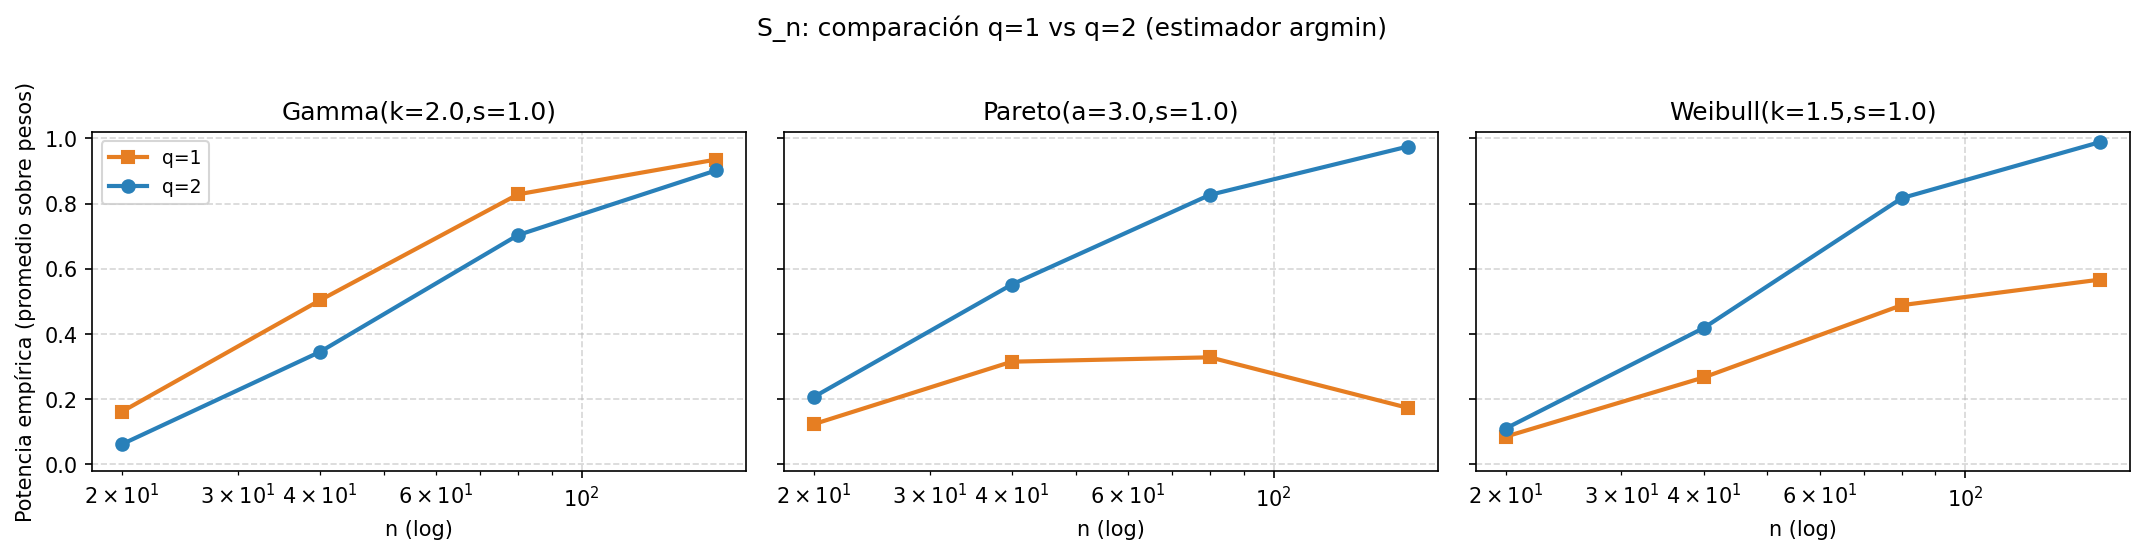
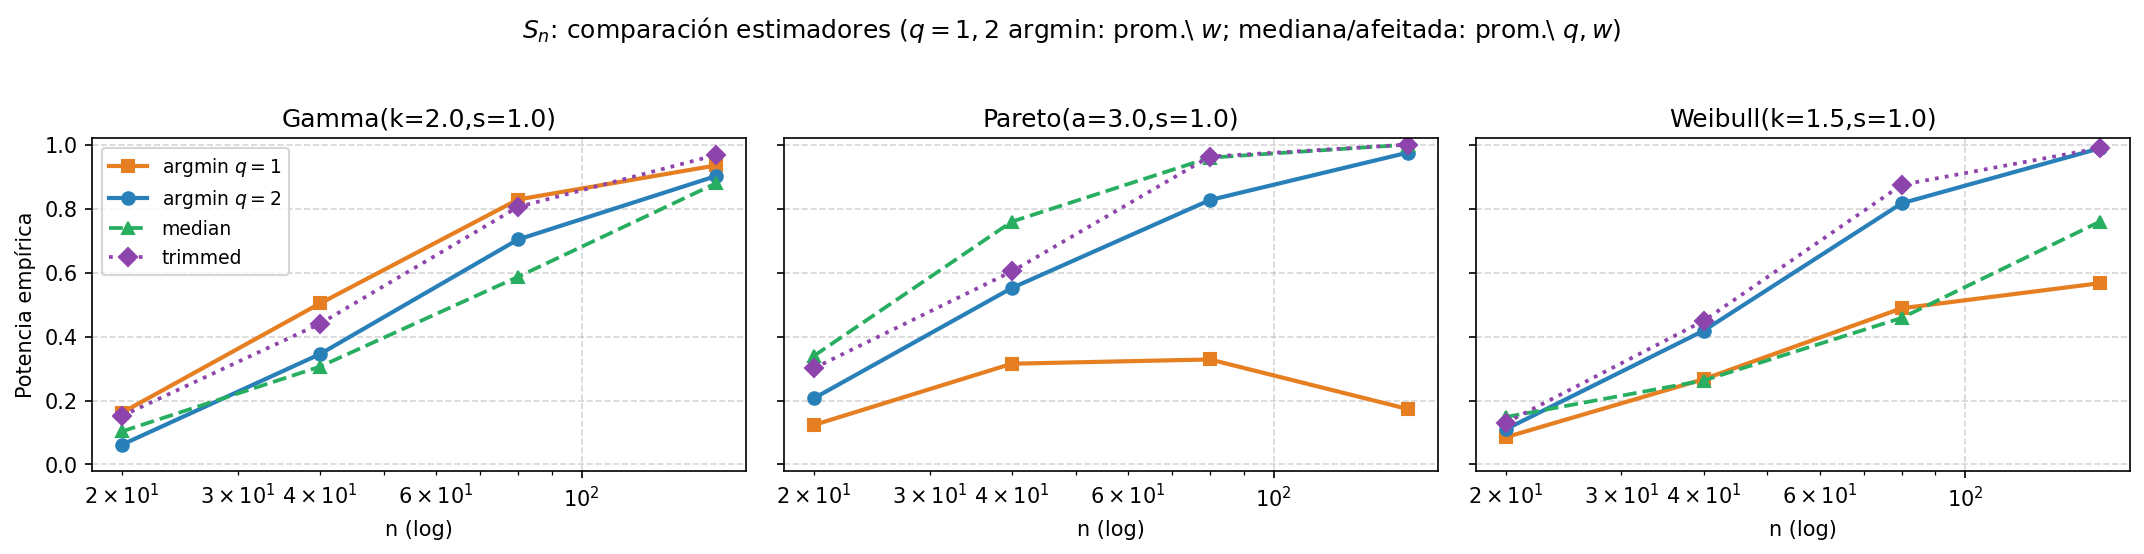
fix: separar q=1 y q=2 argmin en figuras y aclarar implementación grid (q=1)
- plotting_sn: plot_q1_vs_q2 ahora muestra 4 curvas (argmin q=1, argmin q=2,
  median, trimmed); plot_tn_vs_sn_power muestra S_n q=1 y q=2 por separado
  (prom. sobre w) en lugar de "mejor (q,w)"; plot_runtime_sn separa argmin
  q=1 (grid) de argmin q=2 (secante)
- implementacion.tex: corrige párrafo que decía que argmin siempre usa
  secante batcheada; aclara grid para q=1 en bootstrap
- resultados.tex: actualiza caption fig. 11 y 12, números del párrafo de
  efecto de q, timing de S_n argmin q=1 (0.83–1.31 s, grid), y párrafo
  final de costo
- discusion.tex: descomenta y corrige la descripción del par (q=1, argmin)

diff --git a/src/plotting_sn.py b/src/plotting_sn.py
@@ -233,24 +233,35 @@ def plot_power_heatmap(summary: pd.DataFrame, outdir: Path) -> Path | None:
 
 
 # ---------------------------------------------------------------------------
-# Comparativas: q=1 vs q=2
+# Comparativas: q=1 vs q=2, todos los estimadores
 # ---------------------------------------------------------------------------
 def plot_q1_vs_q2(summary: pd.DataFrame, outdir: Path) -> Path | None:
-    """Compara potencia entre q=1 y q=2 (argmin, promediado sobre pesos)."""
+    """Compara potencia: argmin q=1/q=2 (prom. sobre w) + median/trimmed (prom. sobre q,w)."""
     ha = summary[~summary["under_h0"]].copy()
     if ha.empty or ha["q"].nunique() < 2:
         return None
-    sub = ha[ha["estimator"] == "argmin"].copy()
-    if sub.empty:
-        sub = ha.copy()
-    g = sub.groupby(["dist", "n", "q"], as_index=False).agg(
-        reject_rate=("reject_rate", "mean"),
-    )
-    # Paleta distinguible para q=1 y q=2
-    q_colors = {1: "#E67E22", 2: "#2980B9"}   # naranja / azul
-    q_markers = {1: "s", 2: "o"}
 
-    dists = sorted(g["dist"].unique())
+    # argmin: promedio sobre pesos, separado por q
+    g_argmin = (
+        ha[ha["estimator"] == "argmin"]
+        .groupby(["dist", "n", "q"], as_index=False)
+        .agg(reject_rate=("reject_rate", "mean"))
+    )
+    # median y trimmed: promedio sobre q y w
+    g_robust = (
+        ha[ha["estimator"].isin(["median", "trimmed"])]
+        .groupby(["dist", "n", "estimator"], as_index=False)
+        .agg(reject_rate=("reject_rate", "mean"))
+    )
+
+    q_colors = {1: "#E67E22", 2: "#2980B9"}
+    q_markers = {1: "s", 2: "o"}
+    robust_styles = {
+        "median":  {"color": "#27AE60", "marker": "^", "linestyle": "--"},
+        "trimmed": {"color": "#8E44AD", "marker": "D", "linestyle": ":"},
+    }
+
+    dists = sorted(ha["dist"].unique())
     n_cols = min(3, len(dists))
     n_rows = int(np.ceil(len(dists) / n_cols))
     fig, axes = plt.subplots(
@@ -259,8 +270,8 @@ def plot_q1_vs_q2(summary: pd.DataFrame, outdir: Path) -> Path | None:
     )
     axes_flat = axes.flatten()
     for ax, d in zip(axes_flat, dists):
-        for q in sorted(g["q"].unique()):
-            s2 = g[(g["dist"] == d) & (g["q"] == q)].sort_values("n")
+        for q in sorted(g_argmin["q"].unique()):
+            s2 = g_argmin[(g_argmin["dist"] == d) & (g_argmin["q"] == q)].sort_values("n")
             if s2.empty:
                 continue
             ax.plot(
@@ -268,7 +279,19 @@ def plot_q1_vs_q2(summary: pd.DataFrame, outdir: Path) -> Path | None:
                 marker=q_markers.get(q, "o"),
                 color=q_colors.get(q, None),
                 linewidth=2,
-                label=f"q={q}",
+                label=f"argmin $q={q}$",
+            )
+        for est, sty in robust_styles.items():
+            s2 = g_robust[(g_robust["dist"] == d) & (g_robust["estimator"] == est)].sort_values("n")
+            if s2.empty:
+                continue
+            ax.plot(
+                s2["n"], s2["reject_rate"],
+                marker=sty["marker"],
+                color=sty["color"],
+                linestyle=sty["linestyle"],
+                linewidth=1.8,
+                label=est,
             )
         ax.set_xscale("log")
         ax.set_xlabel("n (log)")
@@ -277,9 +300,12 @@ def plot_q1_vs_q2(summary: pd.DataFrame, outdir: Path) -> Path | None:
         ax.grid(True, linestyle="--", alpha=0.5)
     for ax in axes_flat[len(dists):]:
         ax.set_visible(False)
-    axes[0, 0].set_ylabel("Potencia empírica (promedio sobre pesos)")
+    axes[0, 0].set_ylabel("Potencia empírica")
     axes_flat[0].legend(loc="best", fontsize=9)
-    fig.suptitle("S_n: comparación q=1 vs q=2 (estimador argmin)", y=1.02)
+    fig.suptitle(
+        r"$S_n$: comparación estimadores ($q=1,2$ argmin: prom.\ $w$; mediana/afeitada: prom.\ $q,w$)",
+        y=1.02,
+    )
     fig.tight_layout()
     out = outdir / "sn_compare_q.png"
     fig.savefig(out, dpi=150, bbox_inches="tight")
@@ -336,20 +362,40 @@ def plot_weights_compare(summary: pd.DataFrame, outdir: Path) -> Path | None:
 # Runtime
 # ---------------------------------------------------------------------------
 def plot_runtime_sn(summary: pd.DataFrame, outdir: Path) -> Path:
-    """Tiempo medio por test vs n, una curva por estimador."""
+    """Tiempo medio por test vs n: argmin q=1/q=2 separados; median/trimmed promediados."""
     df = summary.copy()
-    g = df.groupby(["n", "estimator"], as_index=False).agg(
-        mean_time_s=("mean_time_s", "mean"),
+
+    # argmin: separado por q, promedio sobre dists y w
+    argmin_g = (
+        df[df["estimator"] == "argmin"]
+        .groupby(["n", "q"], as_index=False)
+        .agg(mean_time_s=("mean_time_s", "mean"))
     )
+    # median y trimmed: promedio sobre q y w (casi idéntico para ambos q)
+    robust_g = (
+        df[df["estimator"].isin(["median", "trimmed"])]
+        .groupby(["n", "estimator"], as_index=False)
+        .agg(mean_time_s=("mean_time_s", "mean"))
+    )
+
+    q_colors = {1: "#E67E22", 2: "#2980B9"}
+    robust_colors = {"median": "#27AE60", "trimmed": "#8E44AD"}
+    robust_markers = {"median": "^", "trimmed": "D"}
+
     fig, ax = plt.subplots(figsize=(6.4, 4.2))
-    for est in sorted(g["estimator"].unique()):
-        s2 = g[g["estimator"] == est].sort_values("n")
-        ax.plot(s2["n"], s2["mean_time_s"], marker="o", linewidth=2, label=est)
+    for q in sorted(argmin_g["q"].unique()):
+        s2 = argmin_g[argmin_g["q"] == q].sort_values("n")
+        ax.plot(s2["n"], s2["mean_time_s"], marker="o", linewidth=2,
+                color=q_colors.get(q), label=f"argmin $q={q}$")
+    for est in sorted(robust_g["estimator"].unique()):
+        s2 = robust_g[robust_g["estimator"] == est].sort_values("n")
+        ax.plot(s2["n"], s2["mean_time_s"], marker=robust_markers[est],
+                linestyle="--", linewidth=1.8, color=robust_colors[est], label=est)
     ax.set_xscale("log")
     ax.set_yscale("log")
     ax.set_xlabel("n (log)")
     ax.set_ylabel("Tiempo medio por test [s] (log)")
-    ax.set_title("Costo computacional del test S_n (promedio sobre q, w)")
+    ax.set_title(r"Costo computacional del test $S_n$ (argmin: prom.\ $w$; otros: prom.\ $q,w$)")
     ax.grid(True, which="both", linestyle="--", alpha=0.5)
     ax.legend()
     fig.tight_layout()
@@ -409,23 +455,26 @@ def plot_tn_vs_sn_power(
     summary_sn: pd.DataFrame,
     outdir: Path,
 ) -> Path | None:
-    """Potencia T_n vs mejor configuración de S_n, por distribución."""
+    """Potencia T_n (argmin) vs S_n argmin q=1 y q=2 (cada uno promediado sobre w)."""
     ha_tn = summary_tn[~summary_tn["under_h0"]].copy()
     ha_sn = summary_sn[~summary_sn["under_h0"]].copy()
     if ha_tn.empty or ha_sn.empty:
         return None
     tn = ha_tn[ha_tn["estimator"] == "argmin"].copy()
-    sn = ha_sn[ha_sn["estimator"] == "argmin"].copy()
-    if tn.empty or sn.empty:
+    sn_argmin = ha_sn[ha_sn["estimator"] == "argmin"].copy()
+    if tn.empty or sn_argmin.empty:
         return None
 
-    sn_best_qw = (
-        sn.groupby(["dist", "q", "weight"], as_index=False)["reject_rate"]
-          .mean()
-          .sort_values("reject_rate", ascending=False)
-          .drop_duplicates("dist")
+    # S_n argmin: promedio sobre w, separado por q
+    sn_g = sn_argmin.groupby(["dist", "n", "q"], as_index=False).agg(
+        reject_rate=("reject_rate", "mean"),
+        se_rate=("se_rate", "mean"),
     )
-    dists = sorted(set(tn["dist"]).intersection(sn["dist"]))
+
+    q_colors = {1: "#E67E22", 2: "#2980B9"}
+    q_markers = {1: "s", 2: "^"}
+
+    dists = sorted(set(tn["dist"]).intersection(sn_argmin["dist"]))
     n_cols = min(3, len(dists))
     n_rows = int(np.ceil(len(dists) / n_cols))
     fig, axes = plt.subplots(
@@ -438,16 +487,15 @@ def plot_tn_vs_sn_power(
         if not s_tn.empty:
             ax.errorbar(s_tn["n"], s_tn["reject_rate"], yerr=2 * s_tn["se_rate"],
                         marker="o", capsize=3, linewidth=2,
-                        label="T_n (argmin)", color="C0")
-        best_row = sn_best_qw[sn_best_qw["dist"] == d]
-        if not best_row.empty:
-            bq = int(best_row.iloc[0]["q"])
-            bw = best_row.iloc[0]["weight"]
-            s_sn = sn[(sn["dist"] == d) & (sn["q"] == bq) & (sn["weight"] == bw)
-                      ].sort_values("n")
+                        label=r"$T_n$ (argmin)", color="C0")
+        for q in [1, 2]:
+            s_sn = sn_g[(sn_g["dist"] == d) & (sn_g["q"] == q)].sort_values("n")
+            if s_sn.empty:
+                continue
             ax.errorbar(s_sn["n"], s_sn["reject_rate"], yerr=2 * s_sn["se_rate"],
-                        marker="s", capsize=3, linewidth=2,
-                        label=f"S_n best (q={bq}, {bw})", color="C1")
+                        marker=q_markers[q], capsize=3, linewidth=2,
+                        color=q_colors[q],
+                        label=rf"$S_n$ argmin $q={q}$ (prom. $w$)")
         ax.set_xscale("log")
         ax.set_xlabel("n (log)")
         ax.set_title(d)
@@ -457,7 +505,7 @@ def plot_tn_vs_sn_power(
         ax.set_visible(False)
     axes[0, 0].set_ylabel("Potencia empírica")
     axes_flat[0].legend(loc="best", fontsize=8)
-    fig.suptitle("Comparación T_n vs S_n (mejor (q, w))", y=1.02)
+    fig.suptitle(r"Comparación $T_n$ vs $S_n$ (argmin, $q=1$ y $q=2$, prom.\ $w$)", y=1.02)
     fig.tight_layout()
     out = outdir / "compare_tn_vs_sn_power.png"
     fig.savefig(out, dpi=150, bbox_inches="tight")

diff --git a/documento/4 - resultados.tex b/documento/4 - resultados.tex
@@ -72,7 +72,7 @@ Los patrones de potencia de $T_n$ muestran que el estimador argmin, es el más p
 \begin{figure}[H]
   \centering
   \includegraphics[width=0.92\textwidth]{../results/figures/sn_compare_q.png}
-  \caption{Comparación de potencia de $S_n$ con $q=1$ vs.\ $q=2$ (estimador argmin, promediado sobre las tres funciones de peso).}
+  \caption{Comparación de potencia de $S_n$: argmin $q=1$ y $q=2$ (cada uno promediado sobre las tres funciones de peso); mediana y media afeitada (promediados sobre $q$ y $w$).}
   \label{fig:sn-q}
 \end{figure}
 
@@ -83,7 +83,7 @@ Los patrones de potencia de $T_n$ muestran que el estimador argmin, es el más p
   \label{fig:sn-pesos}
 \end{figure}
 
-\paragraph{Efecto de $q$.} La Figura~\ref{fig:sn-q} muestra la comparación $q=1$ vs.\ $q=2$ con el estimador argmin (promediado sobre los tres pesos). $q=2$ domina bajo Pareto ($49\%$ vs.\ $30.5\%$ en $n=40$) y Weibull ($87\%$ vs.\ $64\%$ en $n=80$); $q=1$ es competitivo únicamente bajo Gamma ($54\%$ vs.\ $31\%$ en $n=40$, $90.5\%$ vs.\ $82\%$ en $n=80$). Para la \textbf{media afeitada} (no mostrada), $q=1$ tiene ventaja consistente bajo Gamma ($93\%$ vs.\ $74\%$ en $n=80$) y Weibull ($91\%$ vs.\ $88.5\%$ en $n=80$). En conjunto, $q=2$ es preferible cuando se usa argmin, mientras que $q=1$ puede competir con estimadores robustos del centro.
+\paragraph{Efecto de $q$.} La Figura~\ref{fig:sn-q} compara los cuatro estimadores: argmin $q=1$ y $q=2$ (cada uno promediado sobre los tres pesos), junto con mediana y media afeitada (promediados sobre $q$ y $w$). Para el \textbf{argmin}: $q=2$ domina bajo Pareto ($55\%$ vs.\ $32\%$ en $n=40$) y Weibull ($82\%$ vs.\ $49\%$ en $n=80$); $q=1$ es competitivo únicamente bajo Gamma ($50\%$ vs.\ $35\%$ en $n=40$, $83\%$ vs.\ $70\%$ en $n=80$). Para la \textbf{media afeitada}, $q=1$ tiene ventaja consistente bajo Gamma ($91\%$ vs.\ $70\%$ en $n=80$) y Weibull ($92\%$ vs.\ $83\%$ en $n=80$). En conjunto, $q=2$ es preferible cuando se usa argmin, mientras que $q=1$ puede competir con estimadores robustos del centro.
 
 \paragraph{Efecto de $w$.} La Figura~\ref{fig:sn-pesos} muestra que la elección de la función de peso tiene un impacto moderado. Las tres funciones $w_1$, $w_2$ y $w_3$ producen potencias similares en la mayoría de los escenarios. $w_2=\mathcal{N}(0,0.25)$ (más concentrada en bajas frecuencias) tiende a ser ligeramente inferior bajo Gamma y Weibull, sugeriendo que las señales de asimetría se ubican en frecuencias medias que $w_2$ pondera menos. $w_3$ (Laplace, colas pesadas) presenta comportamiento similar a $w_1$.
 
@@ -92,13 +92,13 @@ Los patrones de potencia de $T_n$ muestran que el estimador argmin, es el más p
 \begin{figure}[H]
   \centering
   \includegraphics[width=0.92\textwidth]{../results/figures/compare_tn_vs_sn_power.png}
-  \caption{Comparación de potencia entre $T_n$ y $S_n$ (mejores configuraciones de cada test) bajo $H_a$.}
+  \caption{Comparación de potencia entre $T_n$ (argmin) y $S_n$ (argmin $q=1$ y $q=2$, cada uno promediado sobre $w$) bajo $H_a$.}
   \label{fig:compare-potencia}
 \end{figure}
 
-La Figura~\ref{fig:compare-potencia} confronta las mejores configuraciones de cada test, ambas con estimador argmin: $T_n$ con Schuster-Narvarte, $S_n$ con $q=2$ y $w_1=\mathcal{N}(0,1)$ resuelto por L-BFGS-B. $S_n$ supera a $T_n$ en Gamma y Weibull para tamaños intermedios: la potencia de $S_n$ a $n=40$ bajo Gamma es $31\%$ frente al $25.7\%$ de $T_n$, y bajo Weibull a $n=80$ alcanza $87\%$ frente al $40.3\%$ de $T_n$. Para Pareto, $T_n$ alcanza $98.3\%$ a $n=80$ y $100\%$ a $n=160$; $S_n$ alcanza $92.5\%$ y $100\%$ respectivamente. 
+La Figura~\ref{fig:compare-potencia} compara $T_n$ (argmin, Schuster-Narvarte) con $S_n$ (argmin $q=1$ y $q=2$, ambos promediados sobre los tres pesos $w$). Bajo Gamma, $S_n$ con $q=1$ supera a $T_n$ en todos los tamaños: $50\%$ vs.\ $25.7\%$ en $n=40$ y $83\%$ vs.\ $59\%$ en $n=80$. Bajo Weibull, $S_n$ con $q=2$ es claramente superior a $T_n$: $82\%$ vs.\ $40\%$ en $n=80$. Para Pareto, $T_n$ domina: $98.3\%$ a $n=80$ frente al $82.7\%$ de $S_n$ con $q=2$.
 
-El poder de $S_n$ se explica porque la función característica captura la asimetría global , mientras que $T_n$ solo compara la cdf empírica con su simetrización, siendo más sensible a la moda de la distribución que a las colas.
+El poder de $S_n$ se explica porque la función característica captura la asimetría global, mientras que $T_n$ solo compara la cdf empírica con su simetrización, siendo más sensible a la moda de la distribución que a las colas.
 
 %--------------------------------------------------------------------------
 \subsection{Costo computacional}\label{sec:costo}
@@ -122,7 +122,7 @@ Los costos computacionales observados confirman el análisis teórico de la Secc
 \begin{itemize}
   \item Para $T_n$, la \textbf{mediana} es el estimador más rápido pues su cálculo es $\mathcal{O}(n\log n)$. La \textbf{media afeitada} cuesta $\approx 91$--$99$\,ms (overhead de \texttt{scipy.stats.trim\_mean}), prácticamente constante en $n$. El \textbf{argmin} (Schuster-Narvarte) es moderadamente más lento: $37$\,ms en $n=20$ a $80$\,ms en $n=160$, un factor~$2.2\times$ respecto a $n=20$ y solo $2.6\times$ más lento que la mediana en el peor caso. Esta escalabilidad favorable se debe a que el número de iteraciones $L$ crece como $\mathcal{O}(\log n)$ para distribuciones simétricas, por lo que el coste efectivo es $\mathcal{O}(n\log n)$ y no $\mathcal{O}(n^{2}\log n)$ como una búsqueda Walsh completa.
 
-  \item Para $S_n$ con $q=2$, el \textbf{argmin} cuesta $\approx 0.11$--$0.47$\,s para $n\in\{20,\dots,160\}$ gracias a L-BFGS-B con gradiente analítico: el costo no crece exponencialmente porque cada evaluación del par valor--gradiente es $\mathcal{O}(K)$ ($K=301$ puntos de cuadratura). Mediana y media afeitada cuestan $62$--$444$\,ms, con crecimiento suave en $n$ (vectorización en lote).
+  \item Para $S_n$, el \textbf{argmin} con $q=2$ cuesta $\approx 0.11$--$0.47$\,s gracias a la secante batcheada (gradiente $C^1$, $\mathcal{O}(K)$ por iteración). El \textbf{argmin} con $q=1$ es más lento ($\approx 0.83$--$1.31$\,s) pues el bootstrap usa grid vectorizado ($M=80$ candidatos; el gradiente discontinuo impide usar la secante). Mediana y media afeitada cuestan $62$--$444$\,ms, con crecimiento suave en $n$ (vectorización en lote).
 \end{itemize}
 
 
@@ -133,4 +133,4 @@ Los costos computacionales observados confirman el análisis teórico de la Secc
   \label{fig:compare-runtime}
 \end{figure}
 
-El tradeoff potencia--costo en $T_n$: con el algoritmo de Schuster-Narvarte, el argmin es solo $2$--$2.5\times$ más lento que la mediana pero consistentemente más potente para $n\ge 40$. La elección entre argmin y mediana pasa a ser una cuestión de nivel (argmin conservador, mediana ligeramente liberal bajo Uniforme) y no de costo. En $S_n$, el argmin también es competitivo en tiempo y el más potente (Figura~\ref{fig:compare-potencia}), gracias a la diferenciabilidad de $S_n$ que permite L-BFGS-B.
+El tradeoff potencia--costo en $T_n$: con el algoritmo de Schuster-Narvarte, el argmin es solo $2$--$2.5\times$ más lento que la mediana pero consistentemente más potente para $n\ge 40$. La elección entre argmin y mediana pasa a ser una cuestión de nivel (argmin conservador, mediana ligeramente liberal bajo Uniforme) y no de costo. En $S_n$, el argmin $q=2$ es competitivo en tiempo y el más potente bajo Pareto y Weibull (Figura~\ref{fig:compare-potencia}), gracias al gradiente $C^1$ que permite L-BFGS-B y la secante batcheada; el argmin $q=1$ es el más potente bajo Gamma, al costo de un bootstrap más lento (grid vectorizado).

diff --git a/documento/3 - implementacion.tex b/documento/3 - implementacion.tex
@@ -227,7 +227,7 @@ def _sn_boot_batch(Y, thetas, w_fn, q, t_grid):
     return S_boot
 \end{lstlisting}
 
-Para el estimador argmin, se usa el método secante batcheado de la Sección~\ref{impl:argmin-Sn-secant}: el gradiente analítico de $S_n$ —ecuaciones~\eqref{eq:grad-Sn-q1} y~\eqref{eq:grad-Sn} para $q=1$ y $q=2$ respectivamente— se vectoriza sobre las $B$ réplicas simultáneamente, eliminando el bucle Python y logrando una reducción de $\approx\!8\times$ respecto al bucle secuencial con \texttt{L-BFGS-B}.
+Para el estimador argmin, el bootstrap sigue la estrategia de la Sección~\ref{impl:argmin-Sn-secant}: para $q=2$, la secante batcheada vectoriza el gradiente~\eqref{eq:grad-Sn} (continuo, $C^1$) sobre las $B$ réplicas simultáneamente, logrando una reducción de $\approx\!8\times$ frente al bucle secuencial con \texttt{L-BFGS-B}. Para $q=1$, el gradiente~\eqref{eq:grad-Sn-q1} es discontinuo (contiene $\mathrm{sgn}$) y haría divergir la secante; en su lugar se usa el grid vectorizado (\texttt{\_sn\_boot\_batch\_argmin}), que evalúa $M=80$ candidatos en tensor $(B,K,M)$ y toma el $\arg\min$ por fila.
 
 \subsection{Paralelización del estudio Monte Carlo}
 
@@ -245,7 +245,7 @@ def _single_replica(spec_idx, n, estimator, B, base_seed, task_idx):
             'time_s': time.perf_counter() - t0,
             'under_h0': spec.under_h0}
 \end{lstlisting}
- Con 12 cores activos, el estudio completo de $T_n$ ($18\,000$ tests, $B=199$) corre en $\approx 1.5$ minutos y el de $S_n$ ($72\,000$ tests, $K=301$, $B=199$) en $\approx 10$--$15$ minutos. Las principales ganancias de velocidad son: (i) la vectorización del bootstrap de mediana y media afeitada sobre tensores $(B,K,n)$; (ii) el método secante batcheado para argmin (Sección~\ref{impl:argmin-Sn-secant}), que reduce $\approx\!8\times$ el tiempo por test respecto al bucle secuencial con \texttt{L-BFGS-B}; y (iii) la elección $B=199$ frente al $B=500$ considerado inicialmente.
+ Con 12 cores activos, el estudio completo de $T_n$ ($18\,000$ tests, $B=199$) corre en $\approx 1.5$ minutos y el de $S_n$ ($72\,000$ tests, $K=301$, $B=199$) en $\approx 10$--$15$ minutos. Las principales ganancias de velocidad son: (i) la vectorización del bootstrap de mediana y media afeitada sobre tensores $(B,K,n)$; (ii) la secante batcheada para argmin $q=2$ (Sección~\ref{impl:argmin-Sn-secant}), que reduce $\approx\!8\times$ el tiempo respecto al bucle secuencial con \texttt{L-BFGS-B}, y el grid vectorizado para argmin $q=1$ (gradiente discontinuo no admite la secante); y (iii) la elección $B=199$ frente al $B=500$ considerado inicialmente.
 
 \subsection{Verificación empírica con pruebas unitarias}
 

diff --git a/documento/5 - discusion.tex b/documento/5 - discusion.tex
@@ -34,7 +34,7 @@ Notando estas diferencias notables para el caso gamma: \\ \includegraphics[width
 \includegraphics[width=\linewidth]{results/figures/sn_power_curves_q2_laplace_1p0.png}
 
 Respecto a la elección del estimador del centro $\hat\theta$, los resultados son matizados (véase el Apéndice). Bajo Cauchy, la mediana exhibe el menor RMSE como estimador puntual, mientras que bajo Uniforme el orden se invierte: el argmin tiene el menor RMSE, y la mediana el mayor. En cuanto a la potencia de $S_n$, el argmin es de hecho \emph{el estimador más potente} cuando es compatible con $q$: para Gamma con $q=2$ y $w_1$, alcanza $31\%$ en $n=40$ frente al $32\%$ de la mediana; ventaja que se mantiene en todas las distribuciones alternativas. La explicación es que el argmin minimiza $S_n$ sobre la muestra observada, dejando $S_n^{\text{obs}}$ pequeño pero, simultáneamente, las remuestras bootstrap (provenientes de $sF_n(\hat\theta_{\min})$) producen $S_n^*$ comparablemente pequeño, de manera que la calibración relativa es correcta y el test detecta la asimetría con mayor sensibilidad.
-%% Para $q=1$, el argmin se calcula con gradiente analítico~\eqref{eq:grad-Sn-q1} en la estimación puntual; en el bootstrap se usa un grid vectorizado, ya que el gradiente discontinuo ($\mathrm{sgn}$) hace divergir la secante. Esto permite incluir el par $(q=1,\hat\theta_{\min})$ en el estudio: con Gamma y $n=80$, el argmin alcanza potencia $90\%$ para $q=1$, comparable con los $82\%$ de $q=2$.
+Para $q=1$, el argmin se calcula con gradiente analítico~\eqref{eq:grad-Sn-q1} en la estimación puntual; en el bootstrap se usa un grid vectorizado ($M=80$ candidatos), ya que el gradiente discontinuo ($\mathrm{sgn}$) hace divergir la secante. Esto permite incluir el par $(q=1,\hat\theta_{\min})$ en el estudio: con Gamma y $n=80$, el argmin alcanza potencia $83\%$ para $q=1$, frente a $70\%$ de $q=2$.
 
 De forma conjunta, los resultados sugieren que la elección de \(w(t)\) afecta principalmente la sensibilidad del test frente a distintos tipos de asimetría, especialmente en colas, mientras que \(q\) modula la severidad con que dichas discrepancias son penalizadas. 
 